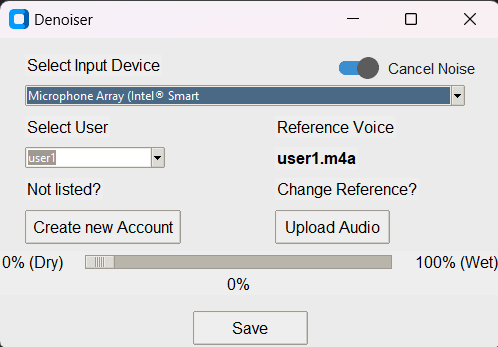
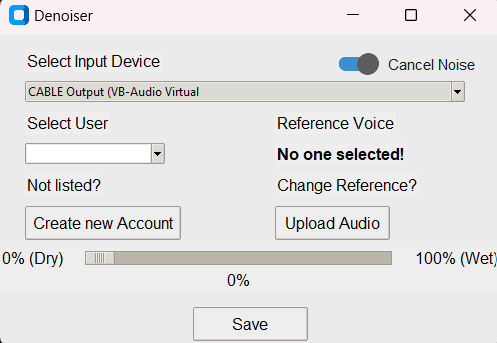
Added the 'Running Application' subsubsection

diff --git a/document/chapters/progress-and-next-steps/progress/application/how_to_run.tex b/document/chapters/progress-and-next-steps/progress/application/how_to_run.tex
@@ -1,17 +1,11 @@
 \subsubsection{Running the Application}
 
-To run the application, the user needs to ensure that Python is installed on their device. The application requires specific libraries which are listed in the \texttt{requirements.txt} file. These libraries can be installed by executing the provided setup script. After the required libraries are installed, user can then run the main application script.
+To run the application, the user needs to ensure that Python is installed on their device. Also, they need to install VB-CABLE Virtual Audio Device software.
 
-To begin, navigate to the directory containing the project files. Execute the setup script \texttt{dependencies/setup.py} to install the necessary dependencies. This can be done by opening a terminal or command prompt and running the following command:
+Also, the application requires specific libraries which are listed in the \texttt{requirements.txt} file. These libraries can be installed by executing the provided setup script. After the required libraries are installed, user can then run the main application script.
 
-\begin{verbatim}
-	python dependencies/setup.py
-\end{verbatim}
+To begin, navigate to the directory containing the project files. Execute the setup script \texttt{setup.py} to install the necessary dependencies.
 
-Once the setup script has completed successfully, navigate to the \texttt{gui} directory and run the main application script by executing the following command:
+Once the setup script has completed successfully, navigate to the \texttt{gui} directory and run the main application script. Alternatively, for convenience, the user can execute the batch file \texttt{Application.bat}. This batch file will sequentially run the setup script and the main application script for automating the process. 
 
-\begin{verbatim}
-	python gui/main.py
-\end{verbatim}
-
-Alternatively, for convenience, the user can execute the batch file \texttt{Application.bat}. This batch file will sequentially run the setup script and the main application script for automating the process. This will ensure that all necessary dependencies are installed and the application is executed correctly.
+This will ensure that all necessary dependencies are installed and the application is executed correctly.
